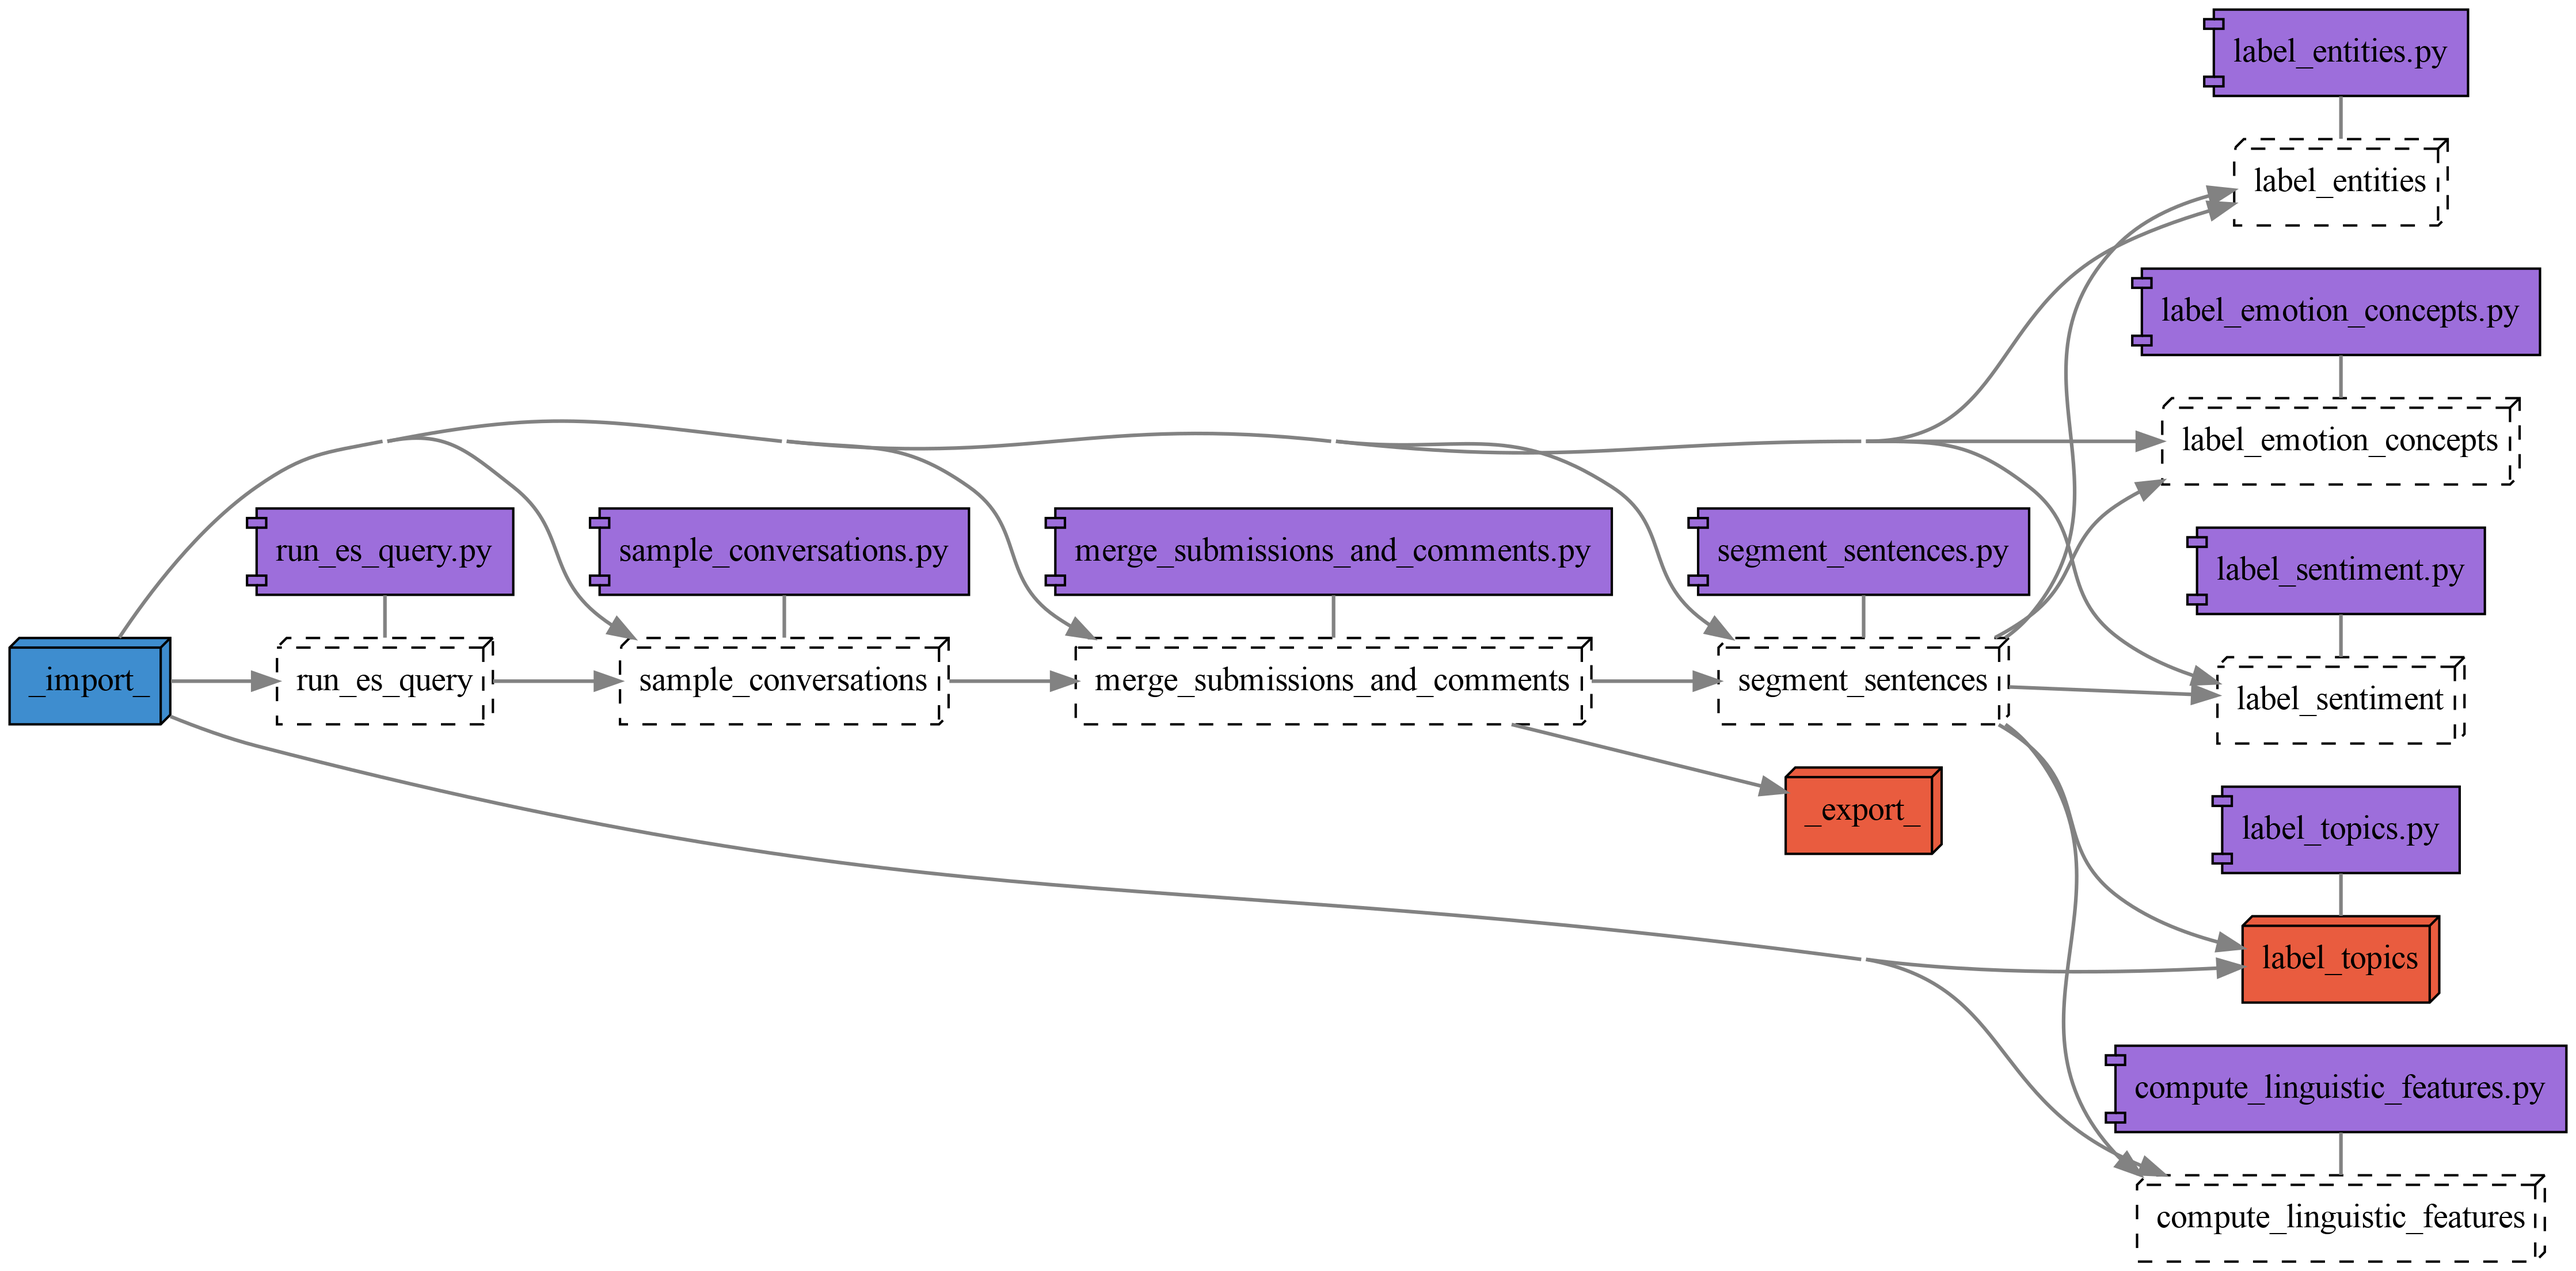
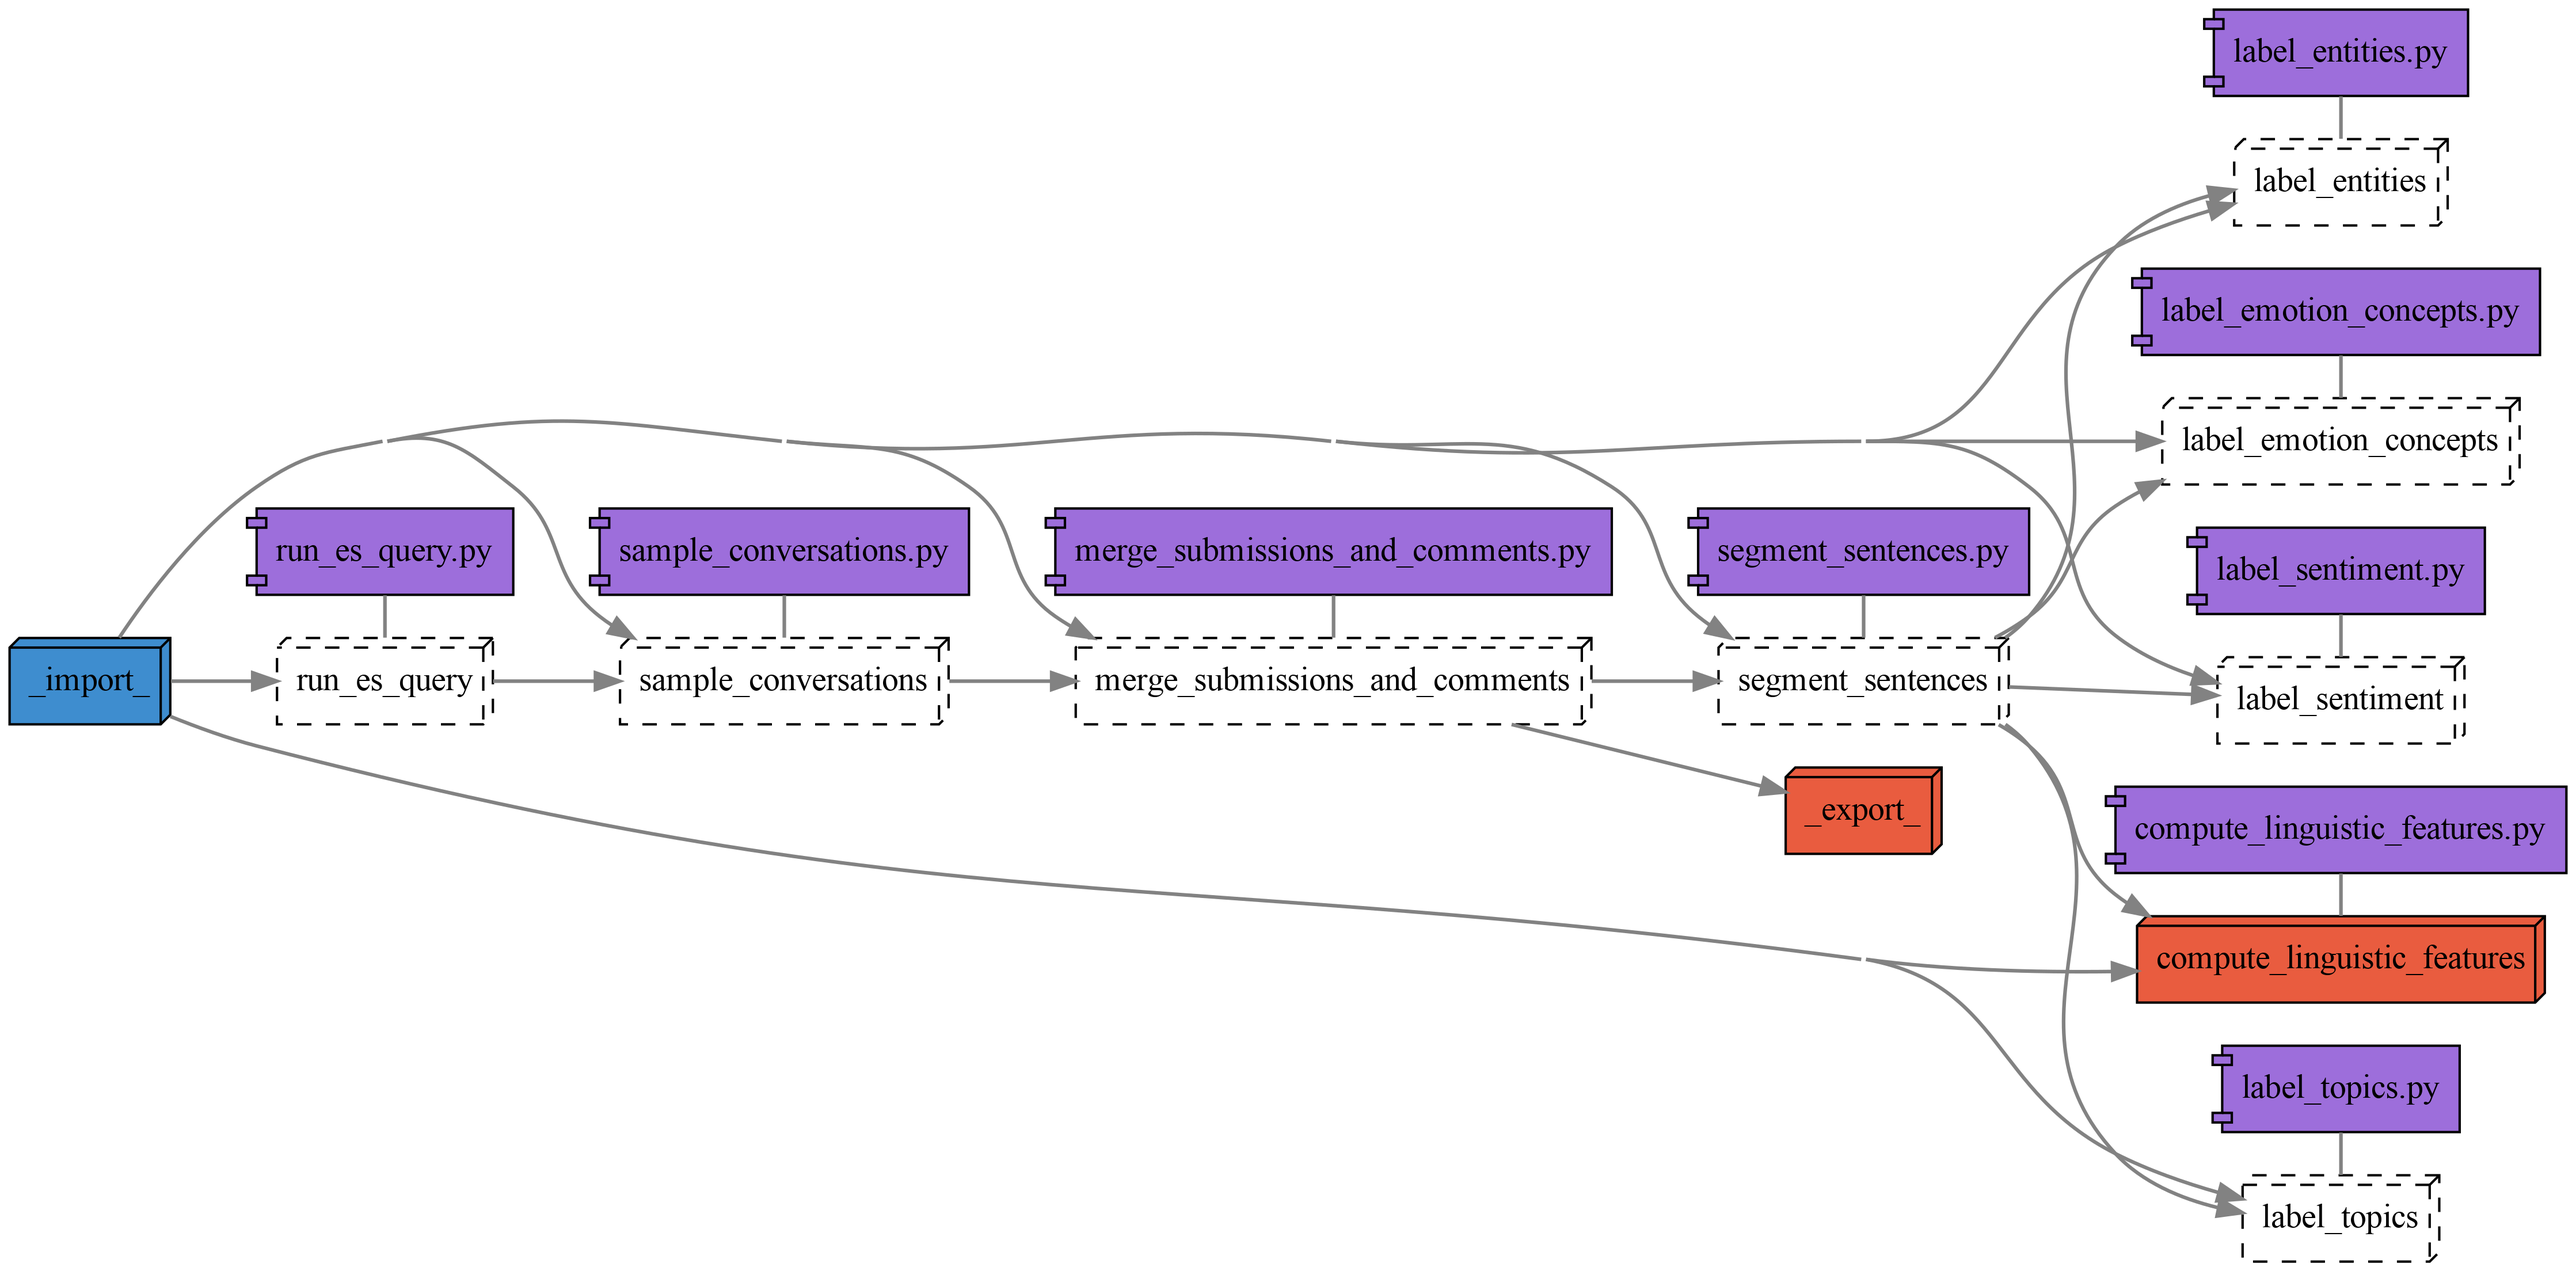
fixed spacy problems, working in the podlm env again

Changed region(s): [[0.8076, 0.7188, 1.0, 0.9688], [0.8076, 0.5938, 1.0, 0.6875]]

diff --git a/podlm/podlm/text.py b/podlm/podlm/text.py
@@ -2,6 +2,7 @@ from termcolor import colored
 from scipy.special import softmax
 from datetime import datetime
 import pandas as pd
+import spacy
 from bertopic import BERTopic
 from sentence_transformers import SentenceTransformer
 from umap import UMAP
@@ -139,42 +140,68 @@ def transformer_emotion_concepts(df: pd.DataFrame, model, tokenizer, textcol: st
     return df
 
 
+def count_parts_of_speech(df: pd.DataFrame, model, textcol: str = 'sentence') -> pd.DataFrame:
+    coarse_counts, ids = [], []
+    pronouns_1, pronouns_2, pronouns_3 = [], [], []
+    docs = model.pipe(df[textcol])
+    for i_doc, doc in enumerate(docs):
+        id_sentence = df.iloc[i_doc]['id_sentence']
+        ids.append(id_sentence)
+        # COARSE POS
+        pos_count = doc.count_by(spacy.attrs.POS)
+        pos_count = {model.vocab.strings[k]: v for k, v in pos_count.items()}
+        coarse_counts.append(pos_count)
+        # FINE POS
+        first, second, third = categorize_pronouns(doc, model)
+        pronouns_1.append(first)
+        pronouns_2.append(second)
+        pronouns_3.append(third)
+
+    coarse_counts = pd.DataFrame(coarse_counts).fillna(0)
+    coarse_counts['id_sentence'] = ids
+    coarse_counts['pronoun_first_person'] = pronouns_1
+    coarse_counts['pronoun_second_person'] = pronouns_2
+    coarse_counts['pronoun_third_person'] = pronouns_3
+    coarse_counts['count_pronoun_first_person'] = [len(x) for x in pronouns_1]
+    coarse_counts['count_pronoun_second_person'] = [len(x) for x in pronouns_2]
+    coarse_counts['count_pronoun_third_person'] = [len(x) for x in pronouns_3]
+    return coarse_counts
 
 
+def matchy_matchy(doc, pattern, model):
+    from spacy.matcher import Matcher    
+    matcher = Matcher(model.vocab)
+    matcher.add('pattern', [pattern])
+    matches = matcher(doc, as_spans=True)
+    matches = [match.text for match in matches]
+    return matches
 
 
-
-
-
-
-
-
-
-
-# def matchy_matchy(doc, pattern, model):
-#     from spacy.matcher import Matcher    
-#     matcher = Matcher(model.vocab)
-#     matcher.add('pattern', [pattern])
-#     matches = matcher(doc, as_spans=True)
-#     matches = [match.text for match in matches]
-#     return matches
-
-# def count_parts_of_speech(df: pd.DataFrame, model, textcol: str = 'sentence') -> pd.DataFrame:
-#     counts, ids = [], []
-#     docs = model.pipe(df[textcol])
-#     for i_doc, doc in enumerate(docs):
-#         id_sentence = df.iloc[i_doc]['id_sentence']
-#         ids.append(id_sentence)
-#         # COARSE POS
-#         pos_count = doc.count_by(spacy.attrs.POS)
-#         pos_count = {nlp.vocab.strings[k]: v for k, v in pos_count.items()}
-#         counts.append(pos_count)
+def categorize_pronouns(doc, model):
+    first = matchy_matchy(doc, [{'POS': 'PRON', 'OP': '+', 'MORPH': {'IS_SUPERSET': [f'Person=1']}}], model)
+    second = matchy_matchy(doc, [{'POS': 'PRON', 'OP': '+', 'MORPH': {'IS_SUPERSET': [f'Person=2']}}], model)
+    third = matchy_matchy(doc, [{'POS': 'PRON', 'OP': '+', 'MORPH': {'IS_SUPERSET': [f'Person=3']}}], model)
+    # pronoun_cats = [first, second, third]
+    # pronouns = pd.DataFrame(pronoun_cats).T
+    # pronouns.columns = ['pronoun_first_person', 'pronoun_second_person', 'pronoun_third_person']
+    # pronoun_first_person_count = pronouns['pronoun_first_person'].str.len
+    # pronoun_second_person_count = pronouns['pronoun_second_person'].str.len
+    # pronoun_third_person_count = pronouns['pronoun_third_person'].str.len
+    return first, second, third
         
-#     counts = pd.DataFrame(counts).fillna(0)
-#     counts['id_sentence'] = ids
-#     return counts
+    
+    
+    
+    # pronoun_first_person = [{'POS': 'PRON', 'OP': '+', 'MORPH': {'IS_SUPERSET': ['Person=1']}}]
+    # pronoun_second_person = [{'POS': 'PRON', 'OP': '+', 'MORPH': {'IS_SUPERSET': ['Person=2']}}]
+    # pronoun_third_person = [{'POS': 'PRON', 'OP': '+', 'MORPH': {'IS_SUPERSET': ['Person=3']}}]
+  
+    # first.append(matchy_matchy(doc, pronoun_first_person, model))
+    # second.append(matchy_matchy(doc, pronoun_second_person, model))
+    # third.append(matchy_matchy(doc, pronoun_third_person, model))
 
-# from sentence_transformers import SentenceTransformer, util
+
+
 
 # similarity_model = SentenceTransformer('all-MiniLM-L6-v2')
 

diff --git a/pipeline/compute_linguistic_features/src/compute_linguistic_features.py b/pipeline/compute_linguistic_features/src/compute_linguistic_features.py
@@ -1,17 +1,21 @@
 from podlm.utilities import load_configs, configure_logging, load_parquet, save_parquet
 from podlm.text import count_parts_of_speech
-import pandas as pd
 import logging
 import spacy
-print(spacy.__version__)
 nlp = spacy.load('en_core_web_sm', disable=['ner', 'textcat'])
 
 configure_logging(__file__)
 config, _ = load_configs()
 subreddits = config['subreddits']
 
+
 for r in subreddits:
     df = load_parquet(f'{r}_sentences')
-    df = count_parts_of_speech(df, nlp, 'sentence', 'id_sentence')
+    df = df.sample(10)
+    
+    df = count_parts_of_speech(df, nlp, 'sentence') 
+    print(df.head())
     logging.debug("Computed linguistic features with spacy.") 
     save_parquet(df, f'{r}_linguistic_features')
+    
+    

diff --git a/README.md b/README.md
@@ -49,18 +49,24 @@ everytime it executes the pipeline.
 
 You can find `yaml` files to create the environments used in this project in `environments/`.
 
-To write a new environment called `entities.yml`, for example: 
+To generate a `yaml` file with the contents of the `podlm` virtual environment, for example: 
 
 ```bash
-conda env export > environments/entities.yml
+conda env export > environments/podlm.yml
 ```
 
-To create a new environment from a `yaml` file, for example `entities` from `entities.yml`:
+To create a new environment from a `yaml` file, for example `podlm_the_second` from a file called `podlm_the_second.yml`:
 
 ```bash
-conda env create -f environments/entities.yml
+conda env create -f environments/podlm_the_second.yml
 ```
 
+`podlm` is not on conda-forge or pip, so you'll need to install it in the new environment. Make sure you activate the environment first: 
+
+```bash
+conda activate podlm
+pip install -e podlm/
+```
 
 # Packages
 
